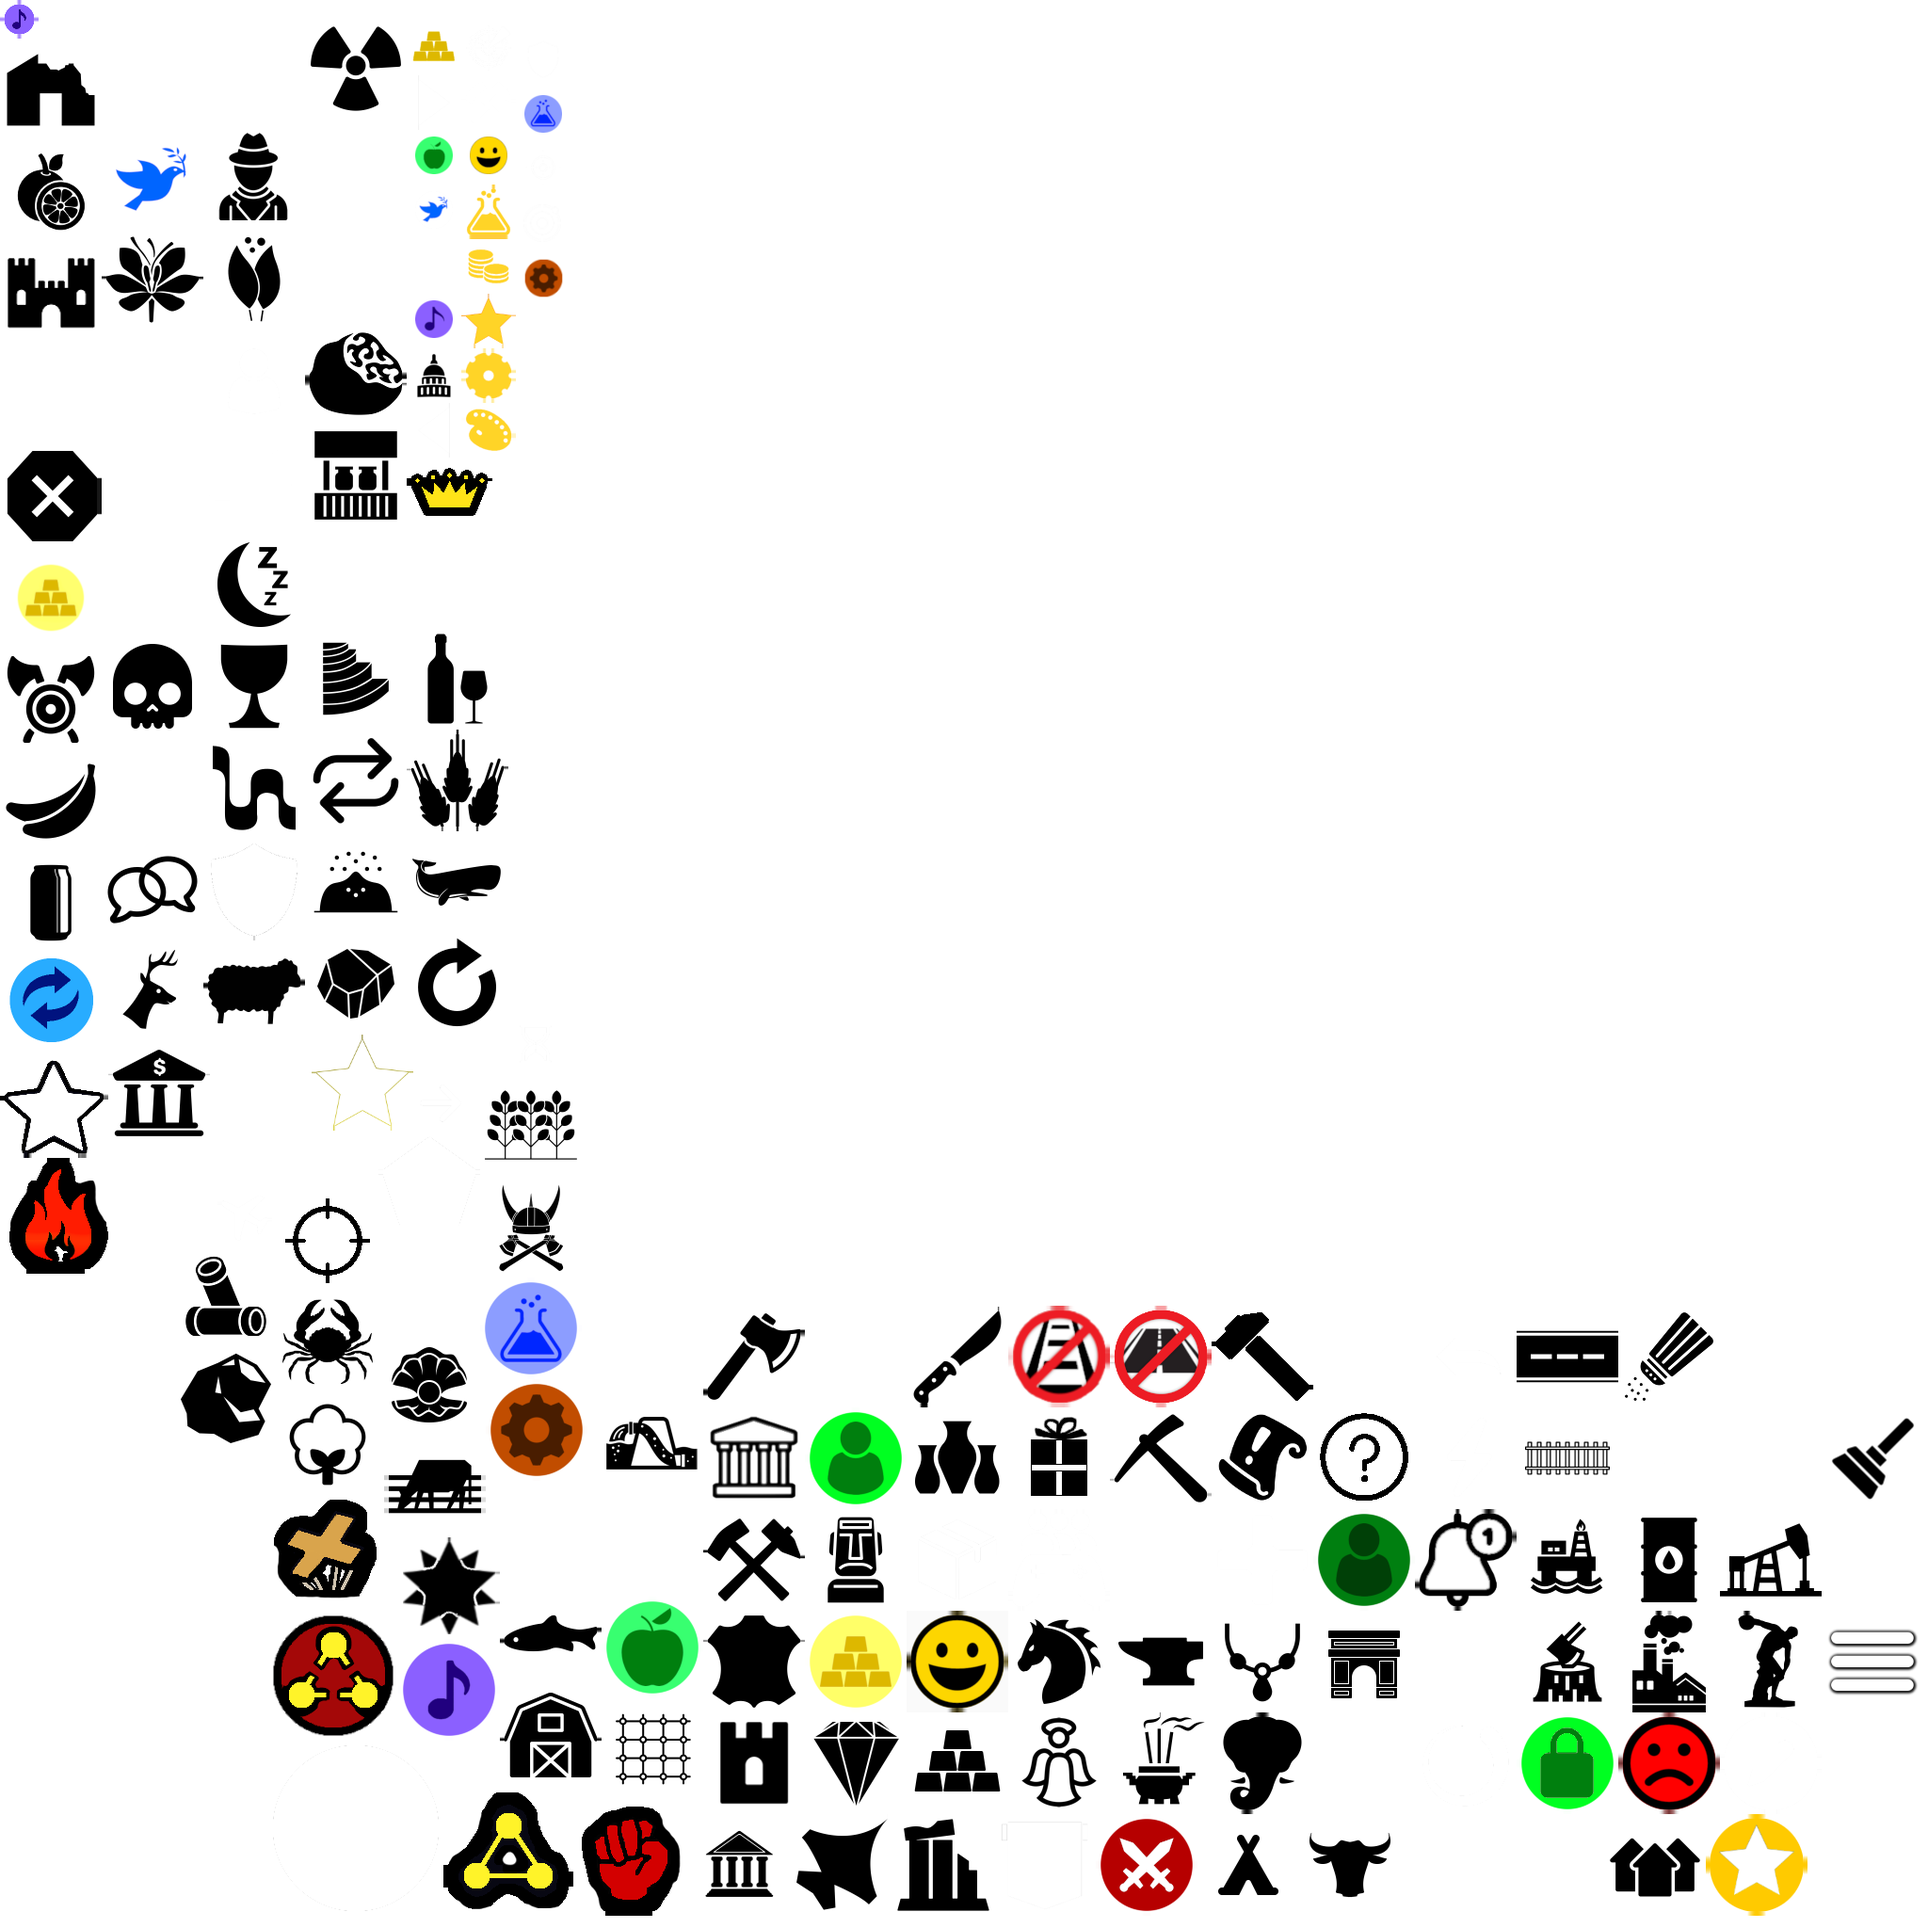
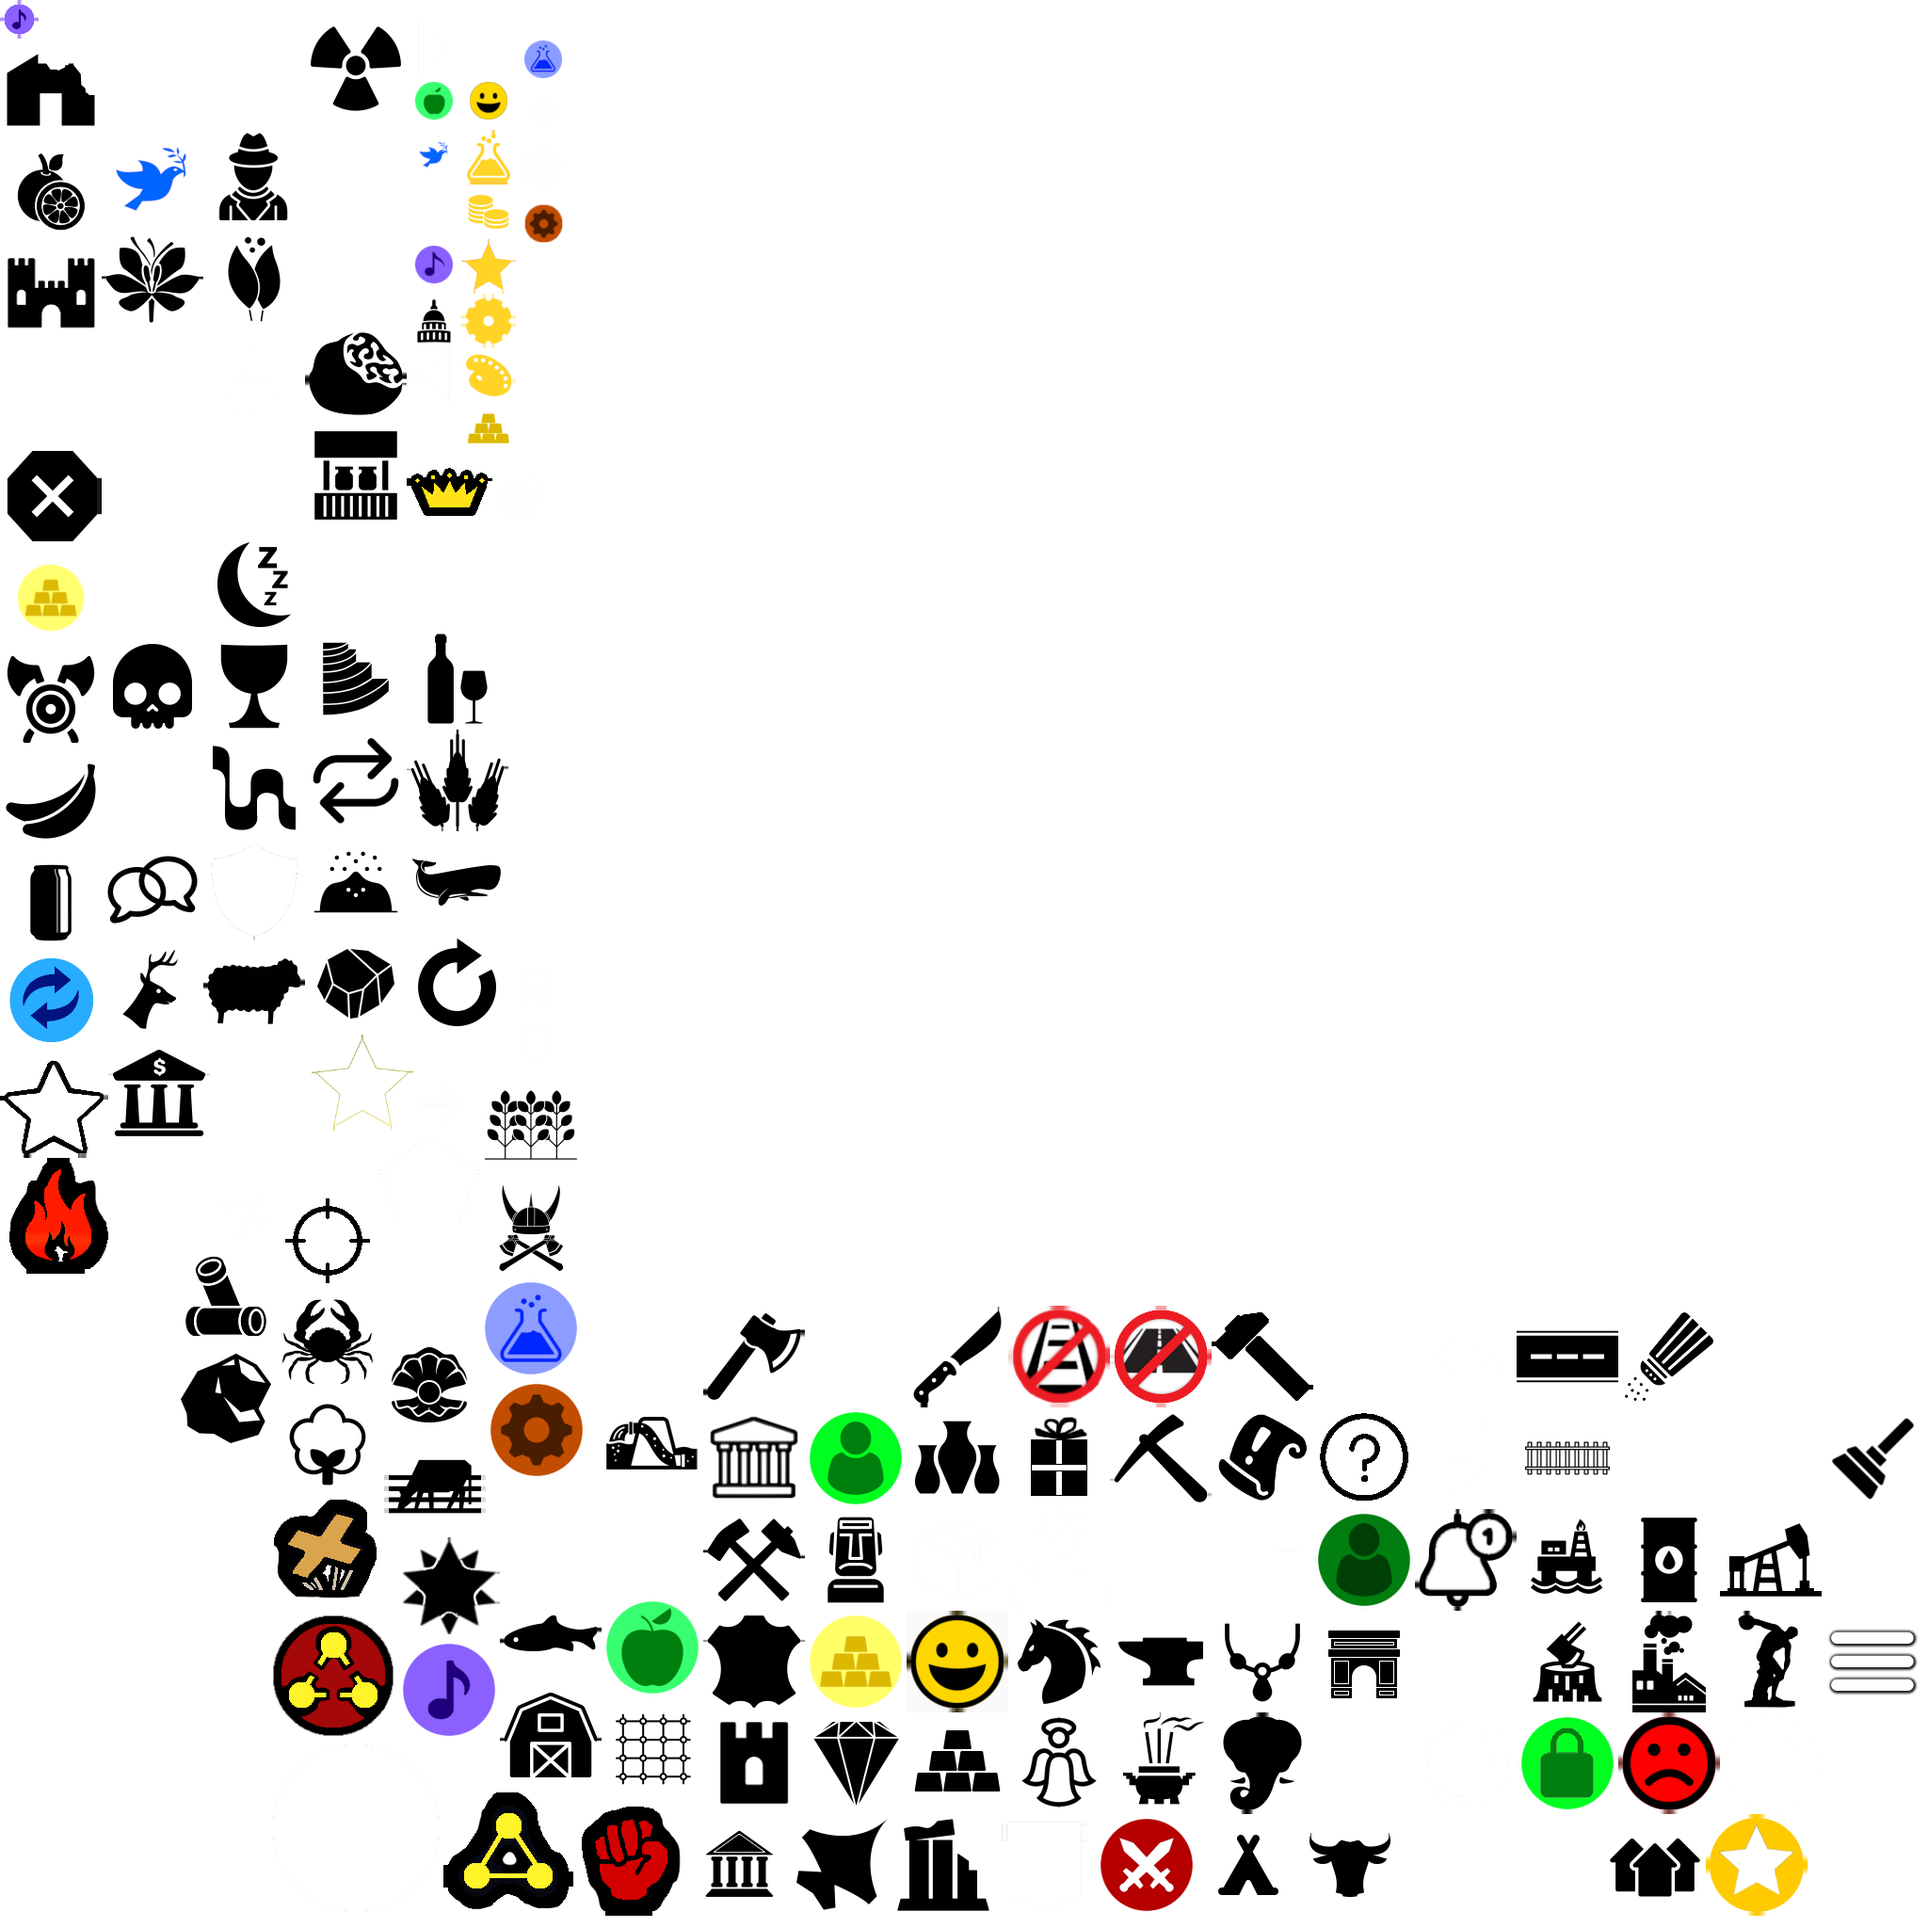
Unit Overview: Improving a tile is also "what the unit is doing" (#9482)
* Unit Overview: Improving a tile is also "what the unit is doing"

* Unit Overview automated worker actions

Changed region(s): [[0.2188, 0.0, 0.3125, 0.25]]

diff --git a/core/src/com/unciv/ui/components/Fonts.kt b/core/src/com/unciv/ui/components/Fonts.kt
@@ -48,7 +48,7 @@ class FontFamilyData(
     val filePath: String? = null
 ) {
 
-    // For serialization
+    @Suppress("unused") // For serialization
     constructor() : this(default.localName, default.invariantName)
 
     // Implement kotlin equality contract such that _only_ the invariantName field is compared.
@@ -138,29 +138,7 @@ class NativeBitmapFontData(
     private fun getPixmapFromChar(ch: Char): Pixmap {
         // Images must be 50*50px so they're rendered at the same height as the text - see Fonts.ORIGINAL_FONT_SIZE
         return when (ch) {
-            Fonts.strength -> getPixmap("StatIcons/Strength")
-            Fonts.rangedStrength -> getPixmap("StatIcons/RangedStrength")
-            Fonts.range -> getPixmap("StatIcons/Range")
-            Fonts.movement -> getPixmap("StatIcons/Movement")
-            Fonts.turn -> getPixmap("EmojiIcons/Turn")
-            Fonts.production -> getPixmap("EmojiIcons/Production")
-            Fonts.gold -> getPixmap("EmojiIcons/Gold")
-            Fonts.food -> getPixmap("EmojiIcons/Food")
-            Fonts.science -> getPixmap("EmojiIcons/Science")
-            Fonts.culture -> getPixmap("EmojiIcons/Culture")
-            Fonts.faith -> getPixmap("EmojiIcons/Faith")
-            Fonts.happiness -> getPixmap("EmojiIcons/Happiness")
-            Fonts.greatArtist -> getPixmap("EmojiIcons/Great Artist")
-            Fonts.greatEngineer -> getPixmap("EmojiIcons/Great Engineer")
-            Fonts.greatGeneral -> getPixmap("EmojiIcons/Great General")
-            Fonts.greatMerchant -> getPixmap("EmojiIcons/Great Merchant")
-            Fonts.greatScientist -> getPixmap("EmojiIcons/Great Scientist")
-            Fonts.death -> getPixmap("EmojiIcons/Death")
-
-            MayaCalendar.tun -> getPixmap(MayaCalendar.tunIcon)
-            MayaCalendar.katun -> getPixmap(MayaCalendar.katunIcon)
-            MayaCalendar.baktun -> getPixmap(MayaCalendar.baktunIcon)
-            in MayaCalendar.digits -> getPixmap(MayaCalendar.digitIcon(ch))
+            in Fonts.allSymbols -> getPixmap(Fonts.allSymbols[ch]!!)
             in Fonts.charToRulesetImageActor ->
                 try {
                     // This sometimes fails with a "Frame buffer couldn't be constructed: incomplete attachment" error, unclear why
@@ -249,7 +227,7 @@ object Fonts {
     val rulesetObjectNameToChar =HashMap<String, Char>()
     val charToRulesetImageActor = HashMap<Char, Actor>()
     // See https://en.wikipedia.org/wiki/Private_Use_Areas - char encodings 57344 63743 are not assigned
-    var nextUnusedCharacterNumber = 57344
+    private var nextUnusedCharacterNumber = 57344
     fun addRulesetImages(ruleset:Ruleset) {
         rulesetObjectNameToChar.clear()
         charToRulesetImageActor.clear()
@@ -290,8 +268,8 @@ object Fonts {
         }
     }
 
-    val frameBuffer by lazy { FrameBuffer(Pixmap.Format.RGBA8888, Gdx.graphics.width, Gdx.graphics.height, false) }
-    val spriteBatch by lazy { SpriteBatch() }
+    private val frameBuffer by lazy { FrameBuffer(Pixmap.Format.RGBA8888, Gdx.graphics.width, Gdx.graphics.height, false) }
+    private val spriteBatch by lazy { SpriteBatch() }
 
     fun getPixmapFromActor(actor: Actor): Pixmap {
 
@@ -336,19 +314,39 @@ object Fonts {
     const val culture = '♪'             // U+266A 'eighth note' (🎵 U+1F3B5 'musical note')
     const val happiness = '⌣'           // U+2323 'smile' (😀 U+1F600 'grinning face')
     const val faith = '☮'               // U+262E 'peace symbol' (🕊 U+1F54A 'dove of peace')
-    const val greatArtist = '♬'          // U+266C 'sixteenth note'
+    @Suppress("MemberVisibilityCanBePrivate") // offer for mods
+    const val greatArtist = '♬'         // U+266C 'sixteenth note'
+    @Suppress("MemberVisibilityCanBePrivate") // offer for mods
     const val greatEngineer = '⚒'       // U+2692 'hammer'
-    const val greatGeneral = '⛤'       // U+26E4 'pentagram'
-    const val greatMerchant = '⚖'      // U+2696 'scale'
+    @Suppress("MemberVisibilityCanBePrivate") // offer for mods
+    const val greatGeneral = '⛤'        // U+26E4 'pentagram'
+    @Suppress("MemberVisibilityCanBePrivate") // offer for mods
+    const val greatMerchant = '⚖'       // U+2696 'scale'
+    @Suppress("MemberVisibilityCanBePrivate") // offer for mods
     const val greatScientist = '⚛'      // U+269B 'atom'
-    const val death = '☠' // U+2620 'skull and crossbones'
+    const val death = '☠'               // U+2620 'skull and crossbones'
+    const val automate = '⛏'            // U+26CF 'pick'
 
-    val allSymbols = arrayOf<Char>(
-        turn,
-        strength, rangedStrength, range, movement,
-        production, gold, food, science, culture, happiness, faith,
-        greatArtist, greatEngineer, greatGeneral, greatMerchant, greatScientist,
-        death,
+    val allSymbols = mapOf(
+        turn to "EmojiIcons/Turn",
+        strength to "StatIcons/Strength",
+        rangedStrength to "StatIcons/RangedStrength",
+        range to "StatIcons/Range",
+        movement to "StatIcons/Movement",
+        production to "EmojiIcons/Production",
+        gold to "EmojiIcons/Gold",
+        food to "EmojiIcons/Food",
+        science to "EmojiIcons/Science",
+        culture to "EmojiIcons/Culture",
+        happiness to "EmojiIcons/Happiness",
+        faith to "EmojiIcons/Faith",
+        greatArtist to "EmojiIcons/Great Artist",
+        greatEngineer to "EmojiIcons/Great Engineer",
+        greatGeneral to "EmojiIcons/Great General",
+        greatMerchant to "EmojiIcons/Great Merchant",
+        greatScientist to "EmojiIcons/Great Scientist",
+        death to "EmojiIcons/Death",
+        automate to "EmojiIcons/Automate",
         *MayaCalendar.allSymbols
     )
 }

diff --git a/core/src/com/unciv/ui/screens/overviewscreen/UnitOverviewTab.kt b/core/src/com/unciv/ui/screens/overviewscreen/UnitOverviewTab.kt
@@ -153,7 +153,7 @@ class UnitOverviewTab(
     private fun Table.updateUnitHeaderTable(): Table {
         defaults().pad(5f)
         add("Name".toLabel())
-        add()
+        add()  // Column: edit-name
         add("Action".toLabel())
         add(Fonts.strength.toString().toLabel())
         add(Fonts.rangedStrength.toString().toLabel())
@@ -206,13 +206,25 @@ class UnitOverviewTab(
             add(editIcon)
 
             // Column: action
-            fun getActionLabel(unit: MapUnit) = when {
-                unit.action == null -> ""
-                unit.isFortified() -> UnitActionType.Fortify.value
-                unit.isMoving() -> "Moving"
-                else -> unit.action!!
+            fun getWorkerActionText(unit: MapUnit): String? = when {
+                // See UnitTurnManager.endTurn, if..workOnImprovement or UnitGroup.getActionImage: similar logic
+                !unit.cache.hasUniqueToBuildImprovements -> null
+                unit.currentMovement == 0f -> null
+                unit.currentTile.improvementInProgress == null -> null
+                !unit.canBuildImprovement(unit.getTile().getTileImprovementInProgress()!!) -> null
+                else -> unit.currentTile.improvementInProgress
             }
-            if (unit.action == null) add() else add(getActionLabel(unit).toLabel())
+            fun getActionText(unit: MapUnit): String? {
+                val workerText by lazy { getWorkerActionText(unit) }
+                return when {
+                    unit.action == null -> workerText
+                    unit.isFortified() -> UnitActionType.Fortify.value
+                    unit.isMoving() -> "Moving"
+                    unit.isAutomated() && workerText != null -> "[$workerText] ${Fonts.automate}"
+                    else -> unit.action
+                }
+            }
+            add(getActionText(unit)?.toLabel())
 
             // Columns: strength, ranged
             if (baseUnit.strength > 0) add(baseUnit.strength.toLabel()) else add()

diff --git a/core/src/com/unciv/ui/components/MayaCalendar.kt b/core/src/com/unciv/ui/components/MayaCalendar.kt
@@ -13,6 +13,7 @@ import com.unciv.ui.components.extensions.addSeparator
 import com.unciv.ui.screens.basescreen.BaseScreen
 import kotlin.math.abs
 
+@Suppress("MemberVisibilityCanBePrivate")  // stuff only accessed through allSymbols looks cleaner with same visibility
 object MayaCalendar {
     // Glyphs / icons
     private const val iconFolder = "MayaCalendar/"
@@ -31,12 +32,12 @@ object MayaCalendar {
     fun digitIcon(ch: Char) = iconFolder + (ch.toCode() - zero.toCode()).toString()
 
     val allSymbols = sequence {
-        yield(tun)
-        yield(katun)
-        yield(baktun)
-        yieldAll(digits)
+        yield(tun to tunIcon)
+        yield(katun to katunIcon)
+        yield(baktun to baktunIcon)
+        yieldAll(digits.map {it to digitIcon(it)})
     }.iterator().run {
-        Array<Char>(23) { next() }
+        Array(23) { next() }
     }
 
     // Calculation
